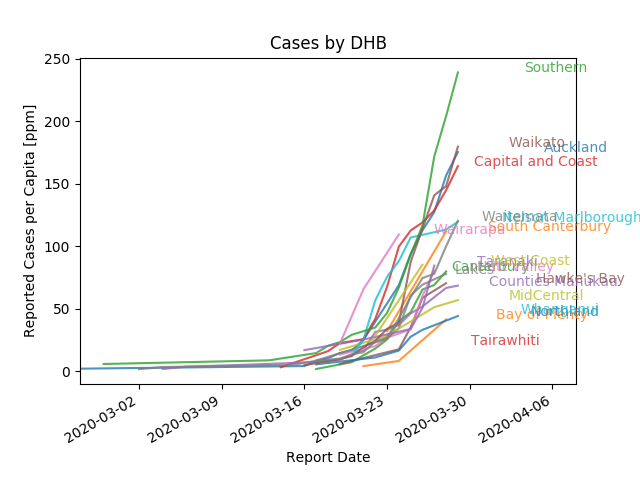
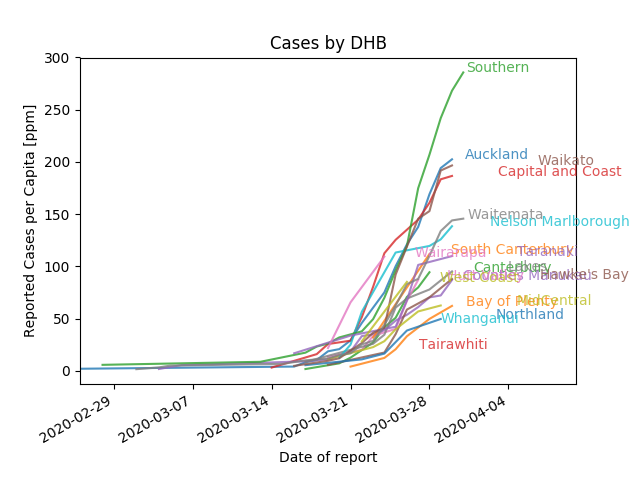
Updates for 31 March

diff --git a/NZModel/nz_data.py b/NZModel/nz_data.py
@@ -7,12 +7,16 @@ import matplotlib.pyplot as plt
 #date_column = "Report Date"
 #header = 3
 #filename = "covid-19-confirmed-probable-cases-29mar20.xlsx"
-#date_column = "Date of report"
+#date_column = date_column_sus = "Date of report"
 #header=0
-filename = "covid-cases-30_mar_2020.xlsx"
-date_column = "Report Date"
-date_column_sus = "ReportDate"
+#filename = "covid-cases-30_mar_2020.xlsx"
+#date_column = "Report Date"
+#date_column_sus = "ReportDate"
+#header=3
+filename = "covidcase_list_31_mar_2020_for_web_-_updated.xlsx"
+date_column = date_column_sus = "Date of report"
 header=3
+
 
 data = pd.read_excel(filename, header=header)
 
